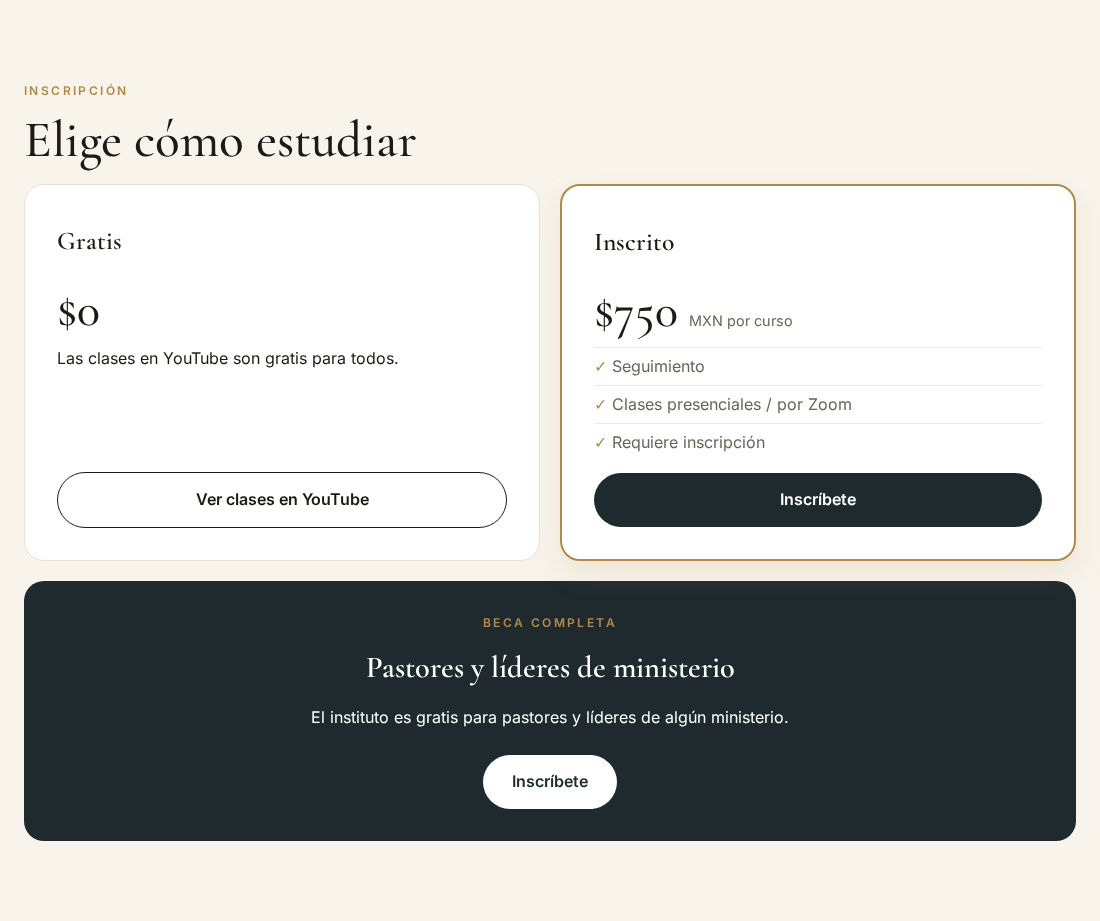
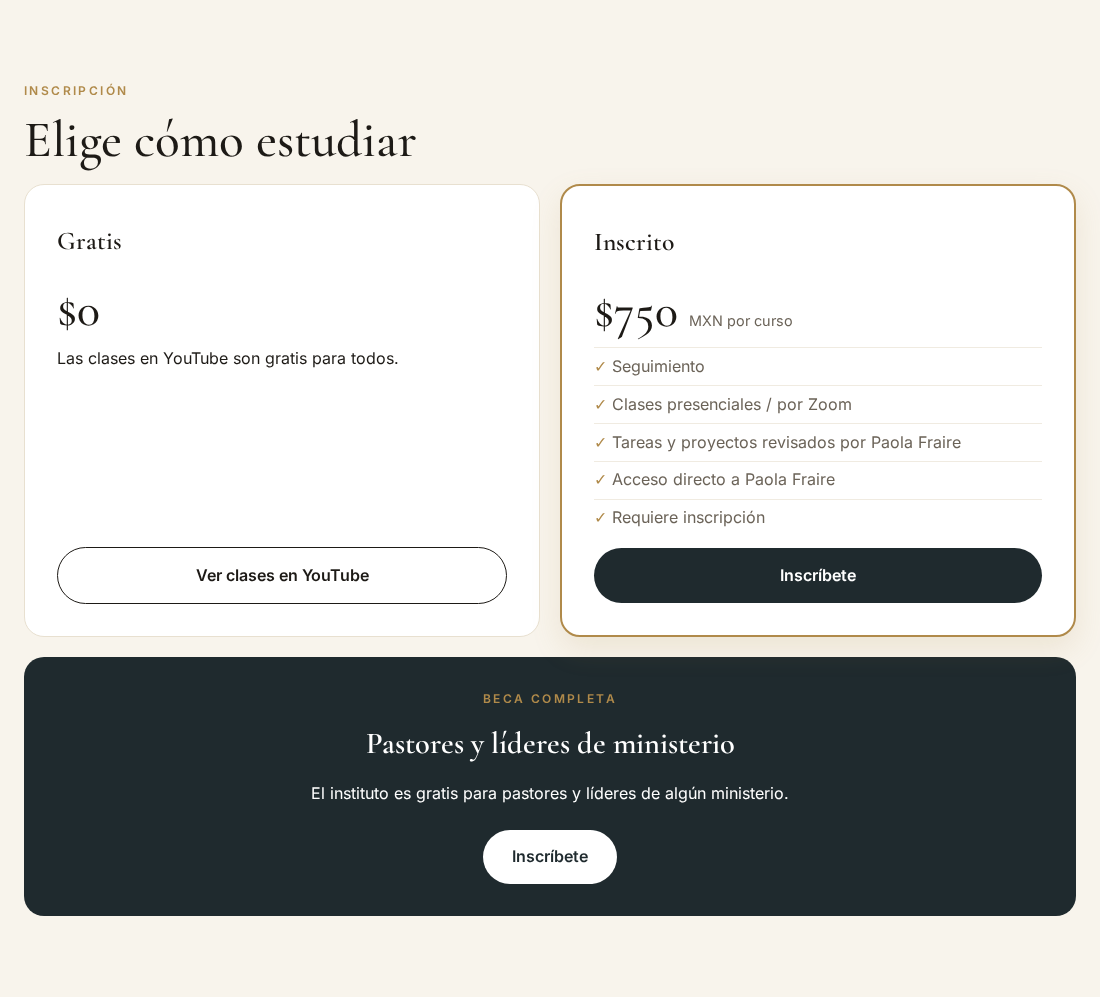
Confirm MXN, add Inscrito benefits

diff --git a/index.html b/index.html
@@ -92,9 +92,8 @@
     </div>
     <div class="price-card featured">
       <h3>Inscrito</h3>
-      <!-- CONFIRMAR: Paola dijo "$750"; moneda asumida MXN -->
       <p class="amount">$750 <small>MXN por curso</small></p>
-      <ul><li>Seguimiento</li><li>Clases presenciales / por Zoom</li><li>Requiere inscripción</li></ul>
+      <ul><li>Seguimiento</li><li>Clases presenciales / por Zoom</li><li>Tareas y proyectos revisados por Paola Fraire</li><li>Acceso directo a Paola Fraire</li><li>Requiere inscripción</li></ul>
       <!-- PLACEHOLDER: enlace de inscripción provisional -->
       <a href="mailto:contacto@aprendeteologia.com?subject=Quiero%20inscribirme" class="btn primary">Inscríbete</a>
     </div>

diff --git a/README.md b/README.md
@@ -5,7 +5,7 @@ Sitio estático (HTML/CSS/JS). Abrir `index.html`. Incluye `<meta name="robots" 
 ## Placeholders por reemplazar
 1. Tagline del hero (texto provisional).
 2. Plan de estudios: REEMPLAZADO con el plan real de Paola (29 oct 2026).
-3. Inscripción: tarjetas de precios; mailto provisional; enlace YouTube "#" pendiente; moneda $750 asumida MXN (confirmar).
+3. Inscripción: tarjetas de precios; mailto provisional; enlace YouTube "#" pendiente; $750 MXN confirmado.
 4. Prédicas: 3 espacios de video vacíos; agregar IDs reales de YouTube.
 5. Portada del libro: placeholder tipográfico (Amazon bloqueó la descarga); poner `img/portada.jpg`.
 6. Descripción del libro y bio de Paola: no incluidas.
